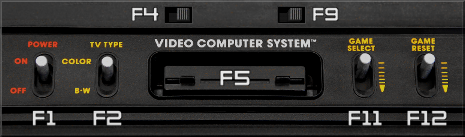
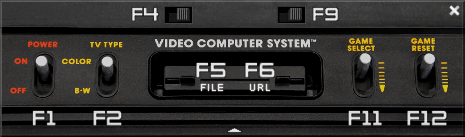
New Hotspot for F6 in ConsolePanel

Changed region(s): [[0.4215, 0.438, 0.6022, 0.6715], [0.9634, 0.0292, 0.9935, 0.1168], [0.4817, 0.9343, 0.5118, 0.9635]]

diff --git a/src/pc/screen/ConsolePanel.java b/src/pc/screen/ConsolePanel.java
@@ -35,7 +35,7 @@ import atari.controls.ConsoleControlsInput;
 import atari.controls.ConsoleControlsRedefinitionListener;
 import atari.controls.ConsoleControlsSocket;
 
-public class ConsolePanel extends SlickFrame implements ConsoleControls, ConsoleControlsInput, ConsoleControlsRedefinitionListener {
+public class 	 extends SlickFrame implements ConsoleControls, ConsoleControlsInput, ConsoleControlsRedefinitionListener {
 
 	public ConsolePanel(JFrame masterWindow, Screen screen, ConsoleControlsSocket controlsSocket) {
 		super(false);
@@ -143,14 +143,14 @@ public class ConsolePanel extends SlickFrame implements ConsoleControls, Console
 	}
 
 	private void addHotspots() {
-		addHotspot(				
-			new Rectangle(218, -13, 30, 15), 
+		addHotspot(
+			new Rectangle(218, -13, 30, 15),
 			new Runnable() { @Override public void run() {
 				toggleRetract();
 			}});
 		addHotspot(
-			new Rectangle(446, 4 - 137, 14, 13), 
-			new Runnable() { @Override public void run() { 
+			new Rectangle(446, 4 - 137, 14, 13),
+			new Runnable() { @Override public void run() {
 				if (!docked) {
 					setVisible(false);
 					SwingUtilities.invokeLater(new Runnable() {  @Override public void run() {
@@ -159,10 +159,10 @@ public class ConsolePanel extends SlickFrame implements ConsoleControls, Console
 				}
 			}});
 		addHotspot(
-			new Rectangle(31, 52 - 137, 24, 46), 
-			new Runnable() { @Override public void run() { 
+			new Rectangle(31, 52 - 137, 24, 46),
+			new Runnable() { @Override public void run() {
 				consoleControlsSocket.controlStateChanged(Control.POWER, true);
-				updateVisibleControlsState(); 
+				updateVisibleControlsState();
 			}});
 		addHotspot(
 			new Rectangle(95, 52 - 137, 24, 46), 
@@ -171,42 +171,48 @@ public class ConsolePanel extends SlickFrame implements ConsoleControls, Console
 				updateVisibleControlsState(); 
 			}});
 		addHotspot(
-			new Rectangle(351, 52 - 137, 24, 46), 
-			new Runnable() { @Override public void run() { 
+			new Rectangle(351, 52 - 137, 24, 46),
+			new Runnable() { @Override public void run() {
 				consoleControlsSocket.controlStateChanged(Control.SELECT, true);
-				updateVisibleControlsState(); 
+				updateVisibleControlsState();
 			}},
-			new Runnable() { @Override public void run() { 
+			new Runnable() { @Override public void run() {
 				consoleControlsSocket.controlStateChanged(Control.SELECT, false);
-				updateVisibleControlsState(); 
+				updateVisibleControlsState();
 			}});
 		addHotspot(
-			new Rectangle(414, 52 - 137, 24, 46), 
-			new Runnable() { @Override public void run() { 
+			new Rectangle(414, 52 - 137, 24, 46),
+			new Runnable() { @Override public void run() {
 				consoleControlsSocket.controlStateChanged(Control.RESET, true);
-				updateVisibleControlsState(); 
+				updateVisibleControlsState();
 			}},
-			new Runnable() { @Override public void run() { 
+			new Runnable() { @Override public void run() {
 				consoleControlsSocket.controlStateChanged(Control.RESET, false);
-				updateVisibleControlsState(); 
+				updateVisibleControlsState();
 			}});
 		addHotspot(
-			new Rectangle(161, 4 - 137, 34, 21), 
-			new Runnable() { @Override public void run() { 
+			new Rectangle(161, 4 - 137, 34, 21),
+			new Runnable() { @Override public void run() {
 				consoleControlsSocket.controlStateChanged(Control.DIFFICULTY0, true);
-				updateVisibleControlsState(); 
+				updateVisibleControlsState();
 			}});
 		addHotspot(
-			new Rectangle(274, 4 - 137, 34, 21), 
-			new Runnable() { @Override public void run() { 
+			new Rectangle(274, 4 - 137, 34, 21),
+			new Runnable() { @Override public void run() {
 				consoleControlsSocket.controlStateChanged(Control.DIFFICULTY1, true);
-				updateVisibleControlsState(); 
+				updateVisibleControlsState();
 			}});
 		addHotspot(
-			new Rectangle(150, 52 - 137, 170, 45), 
-			new Runnable() { @Override public void run() { 
+			new Rectangle(160, 52 - 135, 74, 43),
+			new Runnable() { @Override public void run() {
 				screen.controlStateChanged(pc.screen.Screen.Control.LOAD_CARTRIDGE_FILE, true);
-				updateVisibleControlsState(); 
+				updateVisibleControlsState();
+			}});
+		addHotspot(
+			new Rectangle(150 + 85, 52 - 135, 74, 43),
+			new Runnable() { @Override public void run() {
+				screen.controlStateChanged(pc.screen.Screen.Control.LOAD_CARTRIDGE_URL, true);
+				updateVisibleControlsState();
 			}});
 	}
 

diff --git a/src/atari/console/Console.java b/src/atari/console/Console.java
@@ -13,7 +13,6 @@ import java.util.Map;
 import parameters.Parameters;
 import atari.board.BUS;
 import atari.cartridge.Cartridge;
-import atari.cartridge.CartridgeDisconnected;
 import atari.cartridge.CartridgeSocket;
 import atari.console.savestate.ConsoleState;
 import atari.console.savestate.SaveStateMedia;
@@ -33,7 +32,7 @@ public class Console {
 		socketsCreate();
 		mainClockCreate();
 		videoStandardAuto();
-		cartridge(new CartridgeDisconnected());
+		// cartridge(new CartridgeDisconnected());		TODO Verificar
 	}
 
 	public VideoSignal videoOutput() {
@@ -58,6 +57,7 @@ public class Console {
 	
 	public void powerOn() {
 		if (powerOn) powerOff();
+		bus.powerOn();
 		ram.powerOn();
 		cpu.powerOn();
 		pia.powerOn();
@@ -74,6 +74,7 @@ public class Console {
 		pia.powerOff();
 		cpu.powerOff();
 		ram.powerOff();
+		bus.powerOff();
 		powerOn = false;
 		controlsSocket.controlsStatesRedefined();
 	}

diff --git a/src/pc/cartridge/CartridgeCreator.java b/src/pc/cartridge/CartridgeCreator.java
@@ -3,7 +3,6 @@ package pc.cartridge;
 import general.av.video.VideoStandard;
 import atari.cartridge.Cartridge;
 import atari.cartridge.Cartridge4K;
-import atari.cartridge.CartridgeDisconnected;
 import atari.cartridge.bankswitching.Cartridge12K;
 import atari.cartridge.bankswitching.Cartridge16K;
 import atari.cartridge.bankswitching.Cartridge28K;
@@ -29,8 +28,8 @@ public class CartridgeCreator {
 			if (cartName.indexOf("(SC)") >= 0) sc = true;
 			else if (cartName.indexOf("(NOSC)") >= 0) sc = false;
 			switch (content.length) {
-				case CartridgeDisconnected.SIZE:
-					cart = new CartridgeDisconnected(); break;
+				case 0:
+					return null;
 				case Cartridge4K.HALF_SIZE:
 				case Cartridge4K.SIZE:
 					cart = new Cartridge4K(content); break;

diff --git a/src/atari/board/BUS.java b/src/atari/board/BUS.java
@@ -3,6 +3,7 @@
 package atari.board;
 
 import parameters.Parameters;
+import utils.Randomizer;
 import general.board.BUS16Bits;
 import atari.cartridge.Cartridge;
 import atari.pia.PIA;
@@ -15,6 +16,14 @@ public final class BUS implements BUS16Bits {
 		this.ram = ram;
 		this.tia = tia;
 		this.pia = pia;
+	}
+
+	public void powerOn() {
+		// Data in the bus come random at creation if no Cartridge is inserted
+		if (cartridge == null) data = (byte)Randomizer.instance.nextInt(256);
+	}
+
+	public void powerOff() {
 	}
 
 	@Override

diff --git a/src/atari/cartridge/CartridgeDisconnected.java b/src/atari/cartridge/CartridgeDisconnected.java
@@ -8,9 +8,10 @@ import utils.Randomizer;
 /**
  * Implements no cartridge connected
  */
+// TODO Remover?
 public final class CartridgeDisconnected extends Cartridge {
 
-	public CartridgeDisconnected() {
+	private CartridgeDisconnected() {
 		super();
 	}
 

diff --git a/src/atari/pia/RAM.java b/src/atari/pia/RAM.java
@@ -12,7 +12,7 @@ import utils.Randomizer;
 public final class RAM implements BUS16Bits {
 
 	public RAM() {
-		// RAMs come totally random at creation
+		// RAM come totally random at creation
 		Randomizer.instance.nextBytes(bytes);
 	}
 
